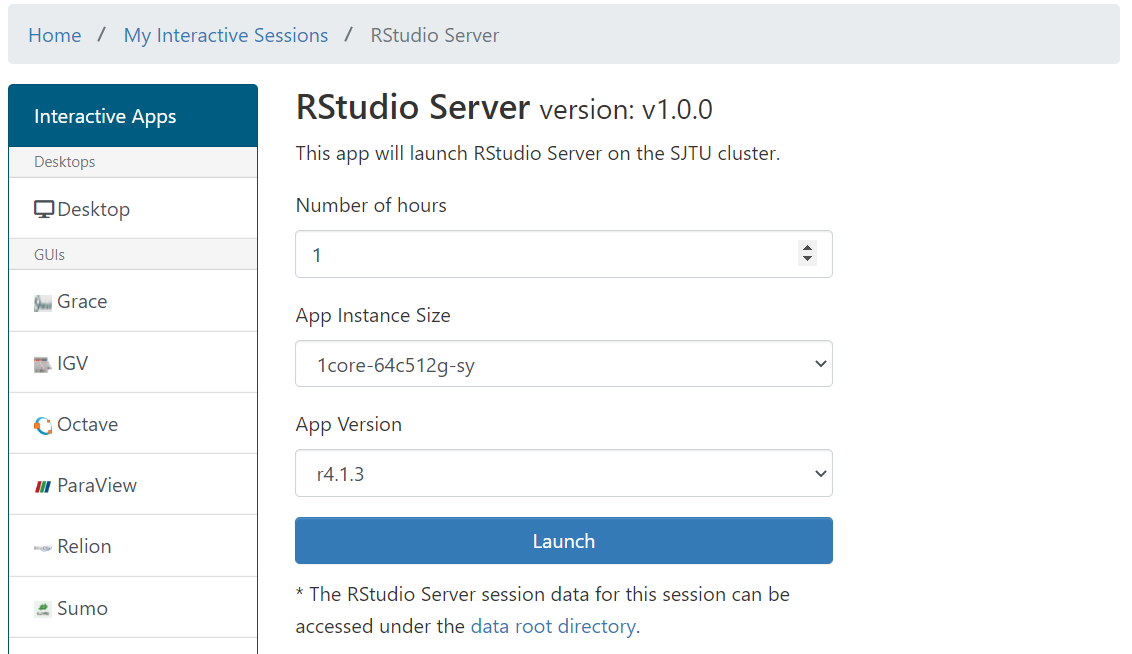
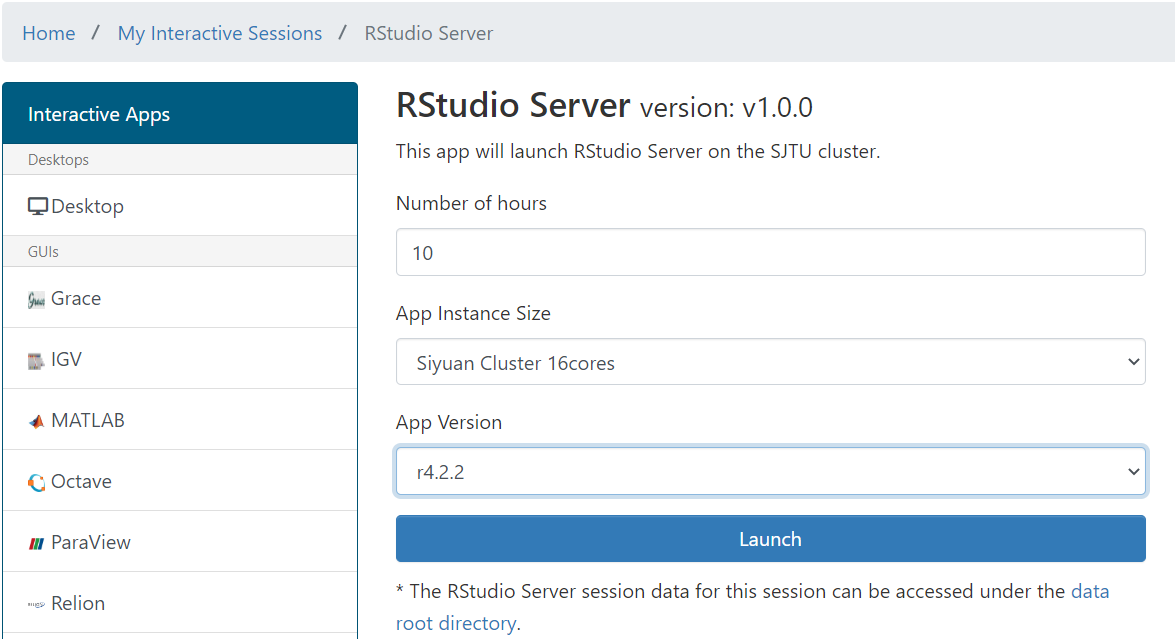
update rstudio.rst

diff --git a/docs/studio/rstudio.rst b/docs/studio/rstudio.rst
@@ -14,6 +14,8 @@ RStudio是一个集成开发环境，主要支持R编程语言，专用于统计
 +-----------+----------+-------------+
 | R版本     | 平台     | RStudio版本 |
 +===========+==========+=============+
+| 4.2.2     | |studio| | 2022.12.0   |
++-----------+----------+-------------+
 | 4.1.3     | |studio| | 2022.02.1   |
 +-----------+----------+-------------+
 | 4.0.2     | |studio| | 1.2.5042    |
@@ -24,21 +26,21 @@ RStudio是一个集成开发环境，主要支持R编程语言，专用于统计
 如何使用
 ----------
 
-用超算的账号及密码登录 `HPC Studio <https://studio.hpc.sjtu.edu.cn/>`_ ，在内置应用中选择 ``RStudio Server`` ，如下图：
+使用超算的账号及密码登录 `HPC Studio <https://studio.hpc.sjtu.edu.cn/>`_ ，在导航栏 ``Interactive Apps`` 中选择 ``RStudio Server`` ，如下图：
 
 .. image:: ../img/RStudio_1.png
   :width: 900px
 
-点击后会出现相关的选项卡，可以设置作业时间，资源情况，软件版本。设置完成后 ``Launch`` 即可运行：
+点击后会出现相关的启动界面，可以设置作业时间，资源情况，软件版本。设置完成后 ``Launch`` 即可运行：
 
 .. image:: ../img/RStudio_2.png
   :width: 900px
 
 .. tip::
 
-   \*-pi 为 π 集群的资源，\*-sy为思源一号的资源。
+   π2.0 集群和思源一号的数据不互通，注意区分。
 
-待界面从等待变成 ``Running`` 后，可使用 ``Connect to RStudio Server`` 连接到 ``Rstudio Server`` ：
+待界面从排队变成 ``Running`` 后，可通过 ``Connect to RStudio Server`` 连接到 ``Rstudio Server`` ：
 
 .. image:: ../img/RStudio_3.png
   :width: 900px
@@ -46,27 +48,31 @@ RStudio是一个集成开发环境，主要支持R编程语言，专用于统计
 运行示例
 ----------
 
-所需的 ``R`` 依赖包需要自行下载：
+所需的 ``R`` 依赖包需要自行安装：
 
 .. code-block:: R
 
-   library(ggplot2)
-   library(dplyr)
-   diamonds< -cbind(diamonds,Cou=rep(1,nrow(diamonds)))
-   sum_clarity<-aggregate(Cou~clarity,diamonds,sum)
-   sort_clarity<-arrange(sum_clarity,desc(Cou))
-   diamonds$clarity<- factor(diamonds$clarity, levels = sort_clarity$clarity)
-   myAngle <-seq(-20,-340,length.out = 8)
-   ggplot(diamonds,aes(x=clarity,fill=color))+
-   geom_bar(width=1.0,colour="black",size=0.25)+
-   coord_polar(theta = "x",start=0)+
-   scale_fill_brewer(palette="GnBu")+guides(fill=guide_legend(reverse=TRUE,title=NULL))+ ylim(c(0,12000))+
-   theme_light()+
-   theme( panel.background = element_blank(),
-        panel.grid.major = element_line(colour = "grey80",size=.25),
-        axis.text.y = element_text(size = 12,colour="black"),
-        axis.line.y = element_line(size=0.25),
-        axis.text.x=element_text (size = 13,colour="black",angle = myAngle))
+   # Upload library
+   library(circlize)
+   circos.par("track.height" = 0.4)
+
+   # Create data
+   data = data.frame(
+     factor = sample(letters[1:8], 1000, replace = TRUE),
+     x = rnorm(1000),
+     y = runif(1000)
+   )
+
+   # Step1: Initialise the chart giving factor and x-axis.
+   circos.initialize( factors=data$factor, x=data$x )
+
+   # Step 2: Build the regions.
+   circos.trackPlotRegion(factors = data$factor, y = data$y, panel.fun = function(x, y) {
+     circos.axis()
+   })
+
+   # Step 3: Add points
+   circos.trackPoints(data$factor, data$x, data$y, col="#69b3a2")
 
 .. image:: ../img/RStudio_4.png
   :width: 900px
